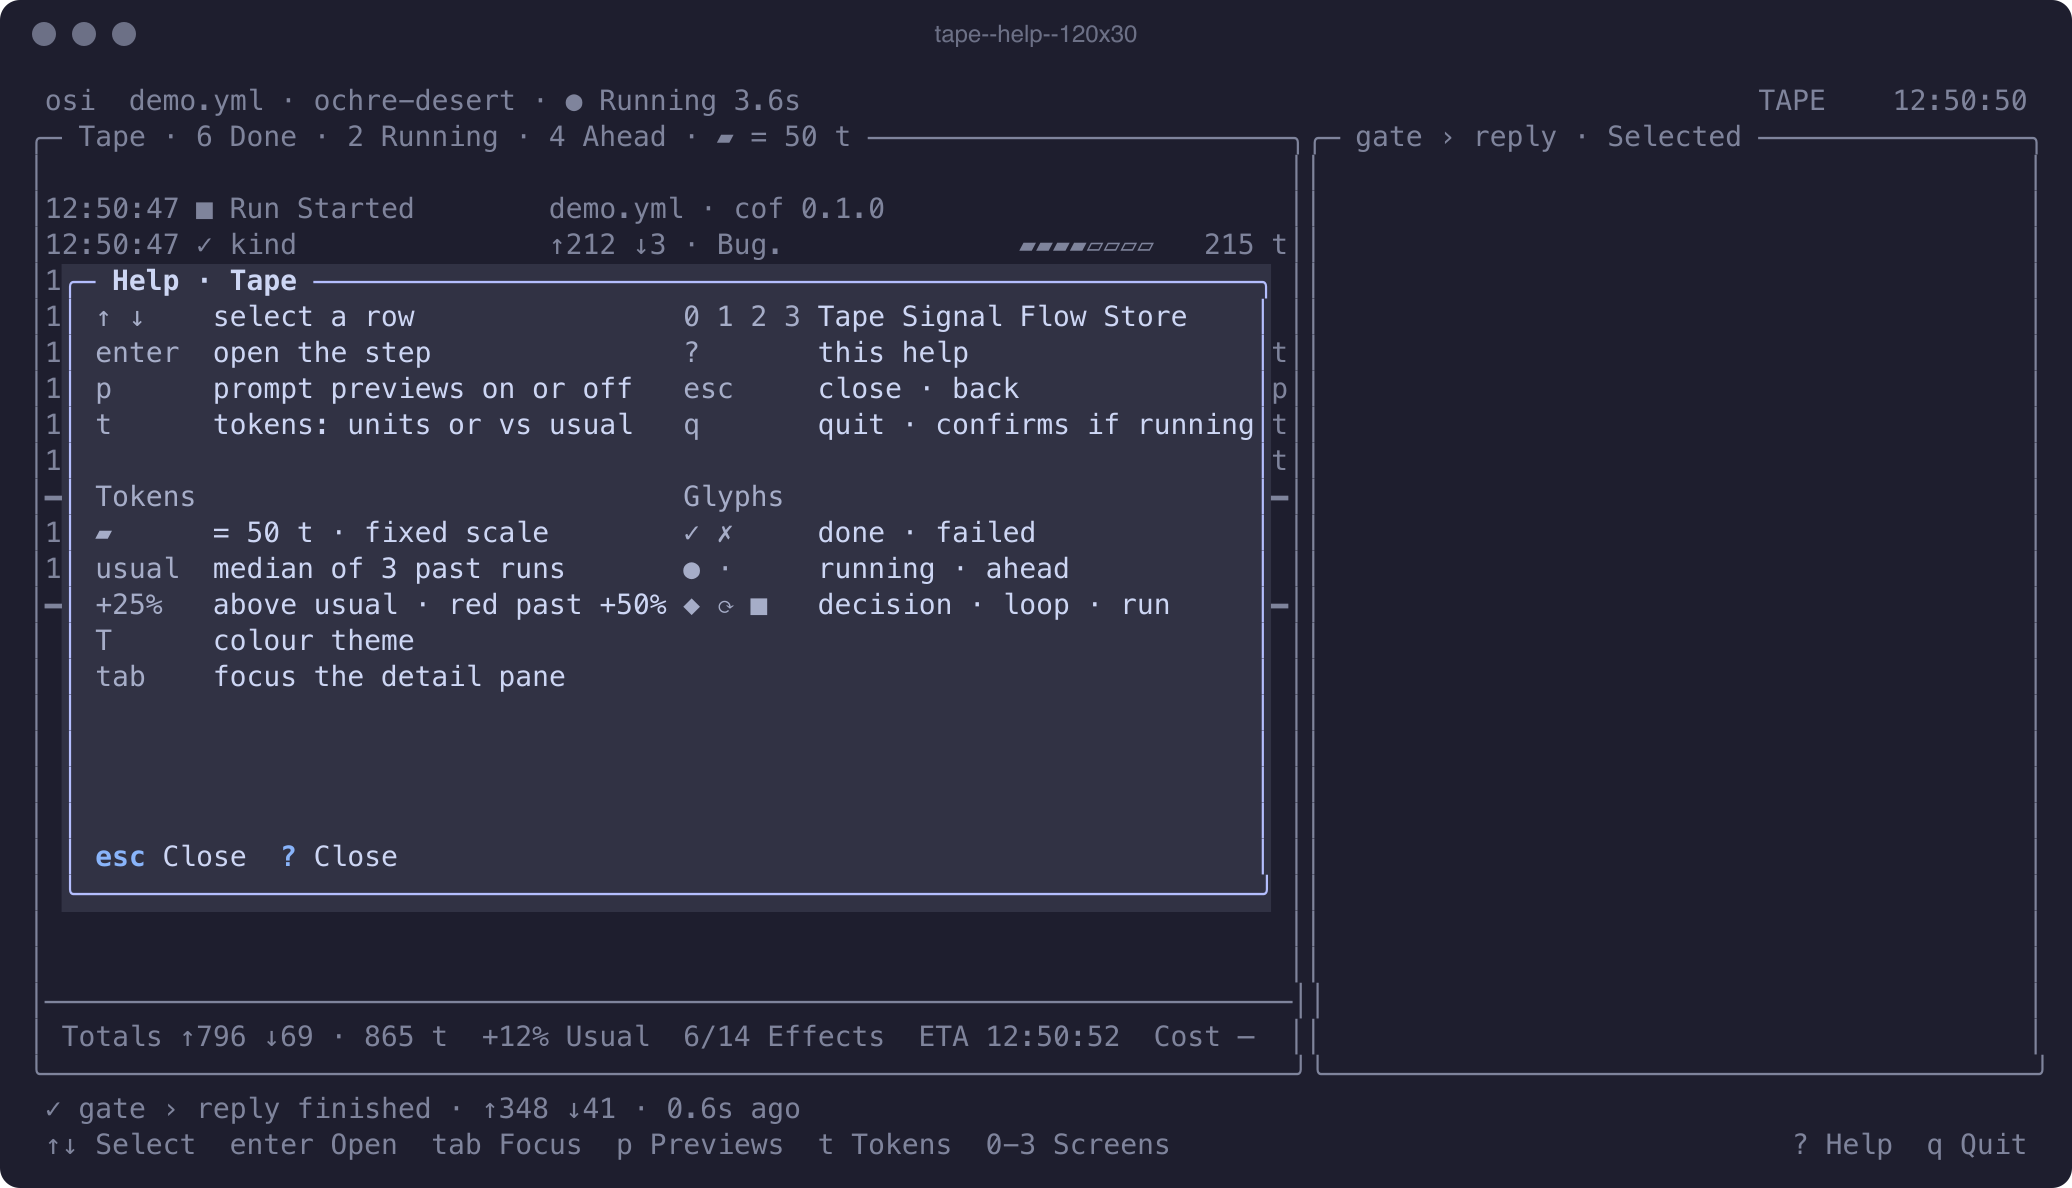
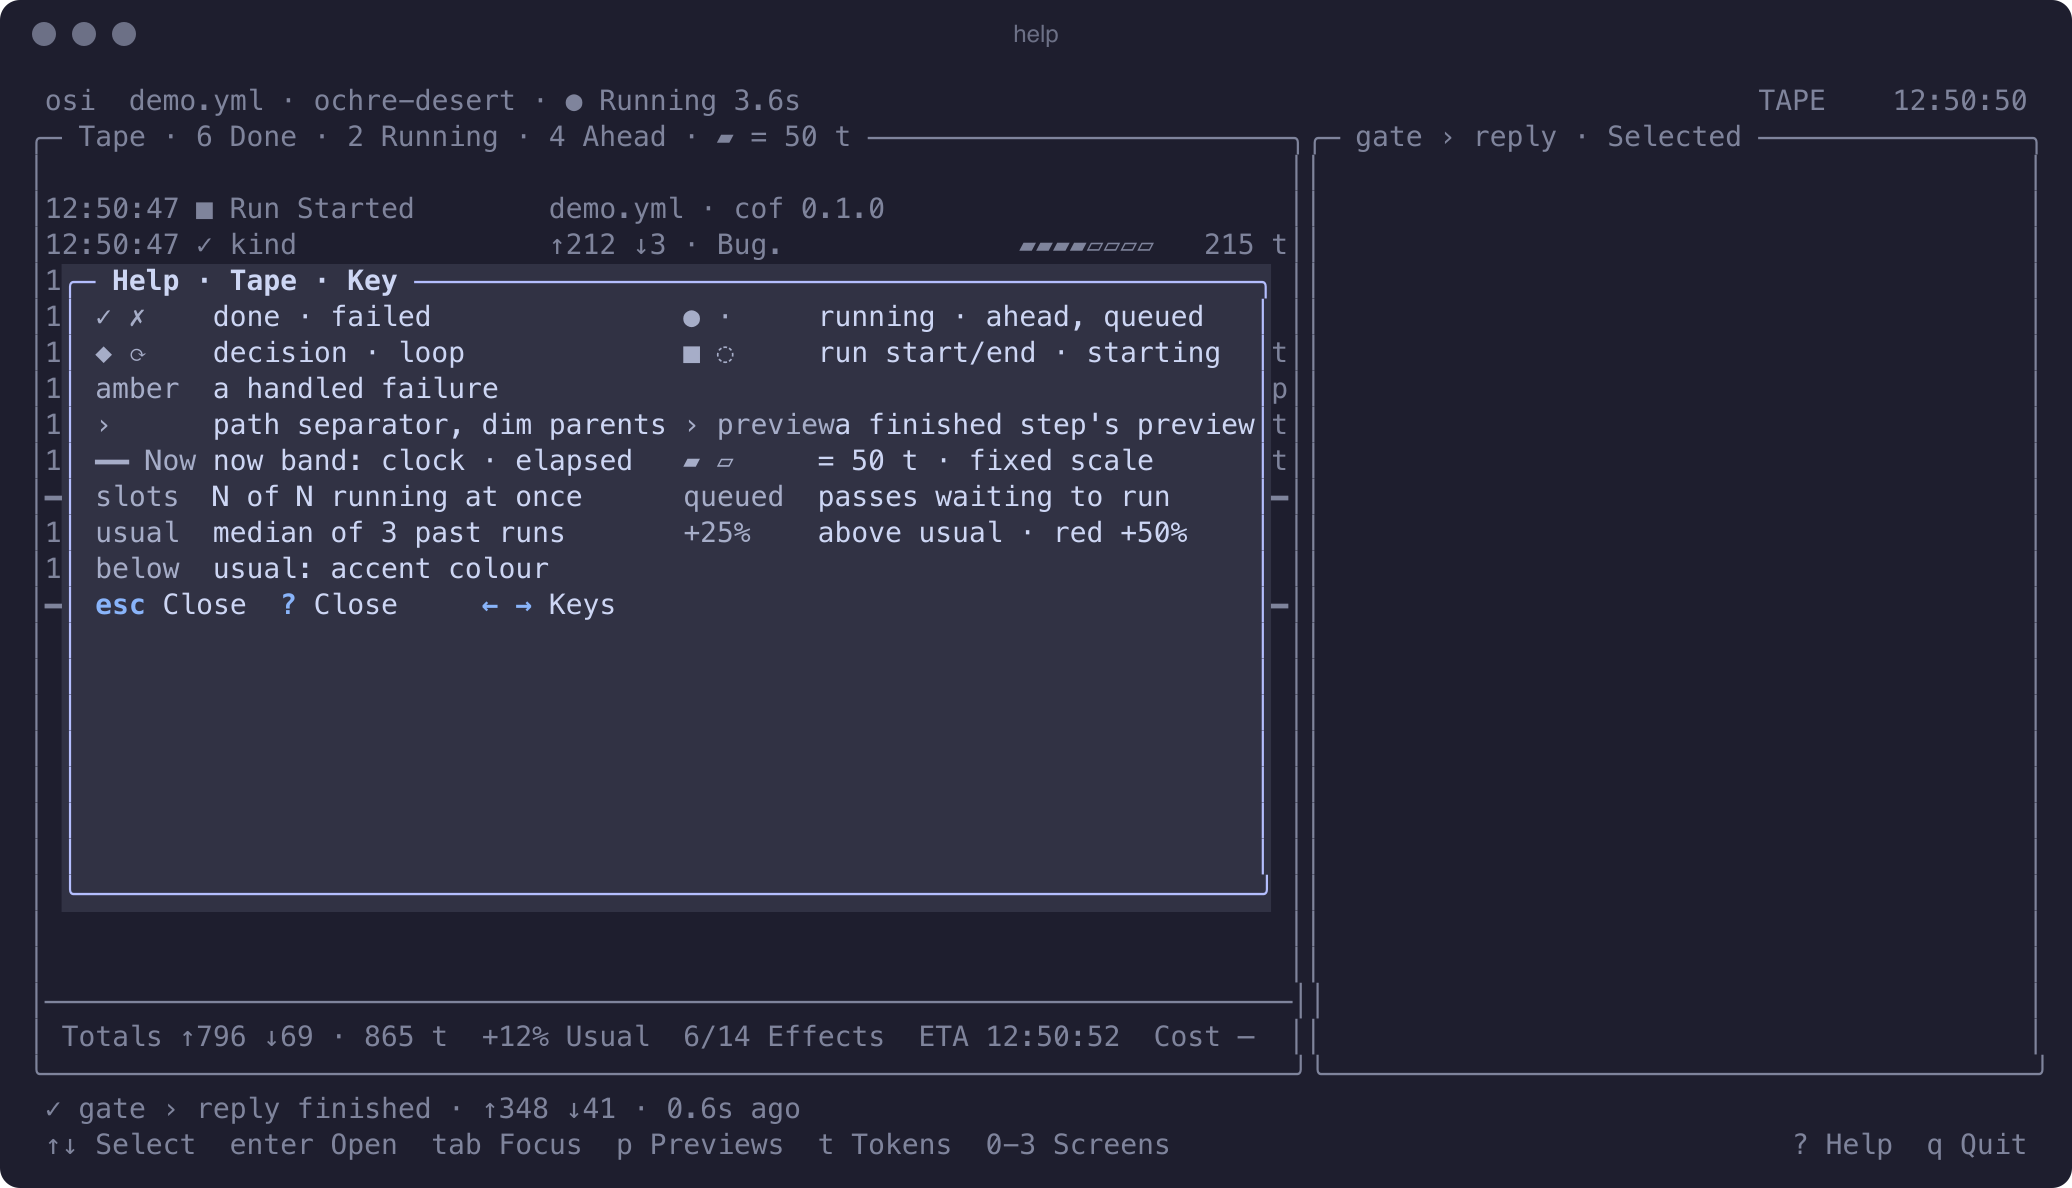
docs(osi): regenerate tape--help--120x30 with the Key, and name it in §4
The frame's own Help overlay now shows the Key page by default (§3.7's
glyphs plus the Tape's own additions) with the Keys page reachable via
<- ->, settling #684's own frame-locked blank rows with the movement
aliases, / and e now shown. §4 gains one sentence: `?` shows the keys
and a Key of the symbols, lines and colours on the current screen.

diff --git a/oscilloscope/design/tui-design.md b/oscilloscope/design/tui-design.md
@@ -657,16 +657,17 @@ Above · Received Below · Fixed Scale`). Counts in chrome are `6 Done · 2 Runn
 
 **Navigation.** `osi doc.yml` opens the run on Tape. `osi` alone opens Select (or attaches when one run is
 live, or shows the empty Select). Select → a run → `esc` → Select. Select → All → `enter` on a tile → that run →
-`esc` → All → `esc` → Select. `?` opens the help over the current screen. `q` asks for confirmation while a run is live
+`esc` → All → `esc` → Select. `?` opens the help over the current screen. `?` shows the keys and a Key of the symbols, lines and colours
+on the current screen. `q` asks for confirmation while a run is live
 and quits at once otherwise. Below 80 columns only the Tape is offered, so its key bar drops `0-3`.
 
-**Keys the shipped TUI binds that the frames do not show** (`crates/oscilloscope/src/keys.rs`): `j`/`k`,
-`PageUp`/`PageDown`, `Home`/`End`, `g`/`G` keep working as movement aliases (also binding the Tape's own
-detail pane, once `tab` has given it focus) and belong in Help. `/` filter and `e` errors-only act on the
-Tape's rows and belong in Help. `t` cycles the theme today; the design uses `t` for the token column, so
-theme cycling moves to `T`. `s` (state tree) and `l` (log) swapped panes on the shipped Flow; this design has
-no such panes, so they go, as does `z` (folding is the Flow's `+/-`) and `v`. `Tab` is otherwise unnecessary:
-every other screen has one list with a cursor, nothing of its own to focus.
+**Keys the Tape's own key bar does not show, but its own Help's Keys page lists** (`crates/oscilloscope/src/keys.rs`):
+`j`/`k`, `PageUp`/`PageDown`, `Home`/`End`, `g`/`G` keep working as movement aliases (also binding the Tape's own
+detail pane, once `tab` has given it focus). `/` filter and `e` errors-only act on the Tape's rows. `t` cycles the
+theme today; the design uses `t` for the token column, so theme cycling moves to `T`. `s` (state tree) and `l` (log)
+swapped panes on the shipped Flow; this design has no such panes, so they go, as does `z` (folding is the Flow's
+`+/-`) and `v`. `Tab` is otherwise unnecessary: every other screen has one list with a cursor, nothing of its own to
+focus.
 
 ---
 
